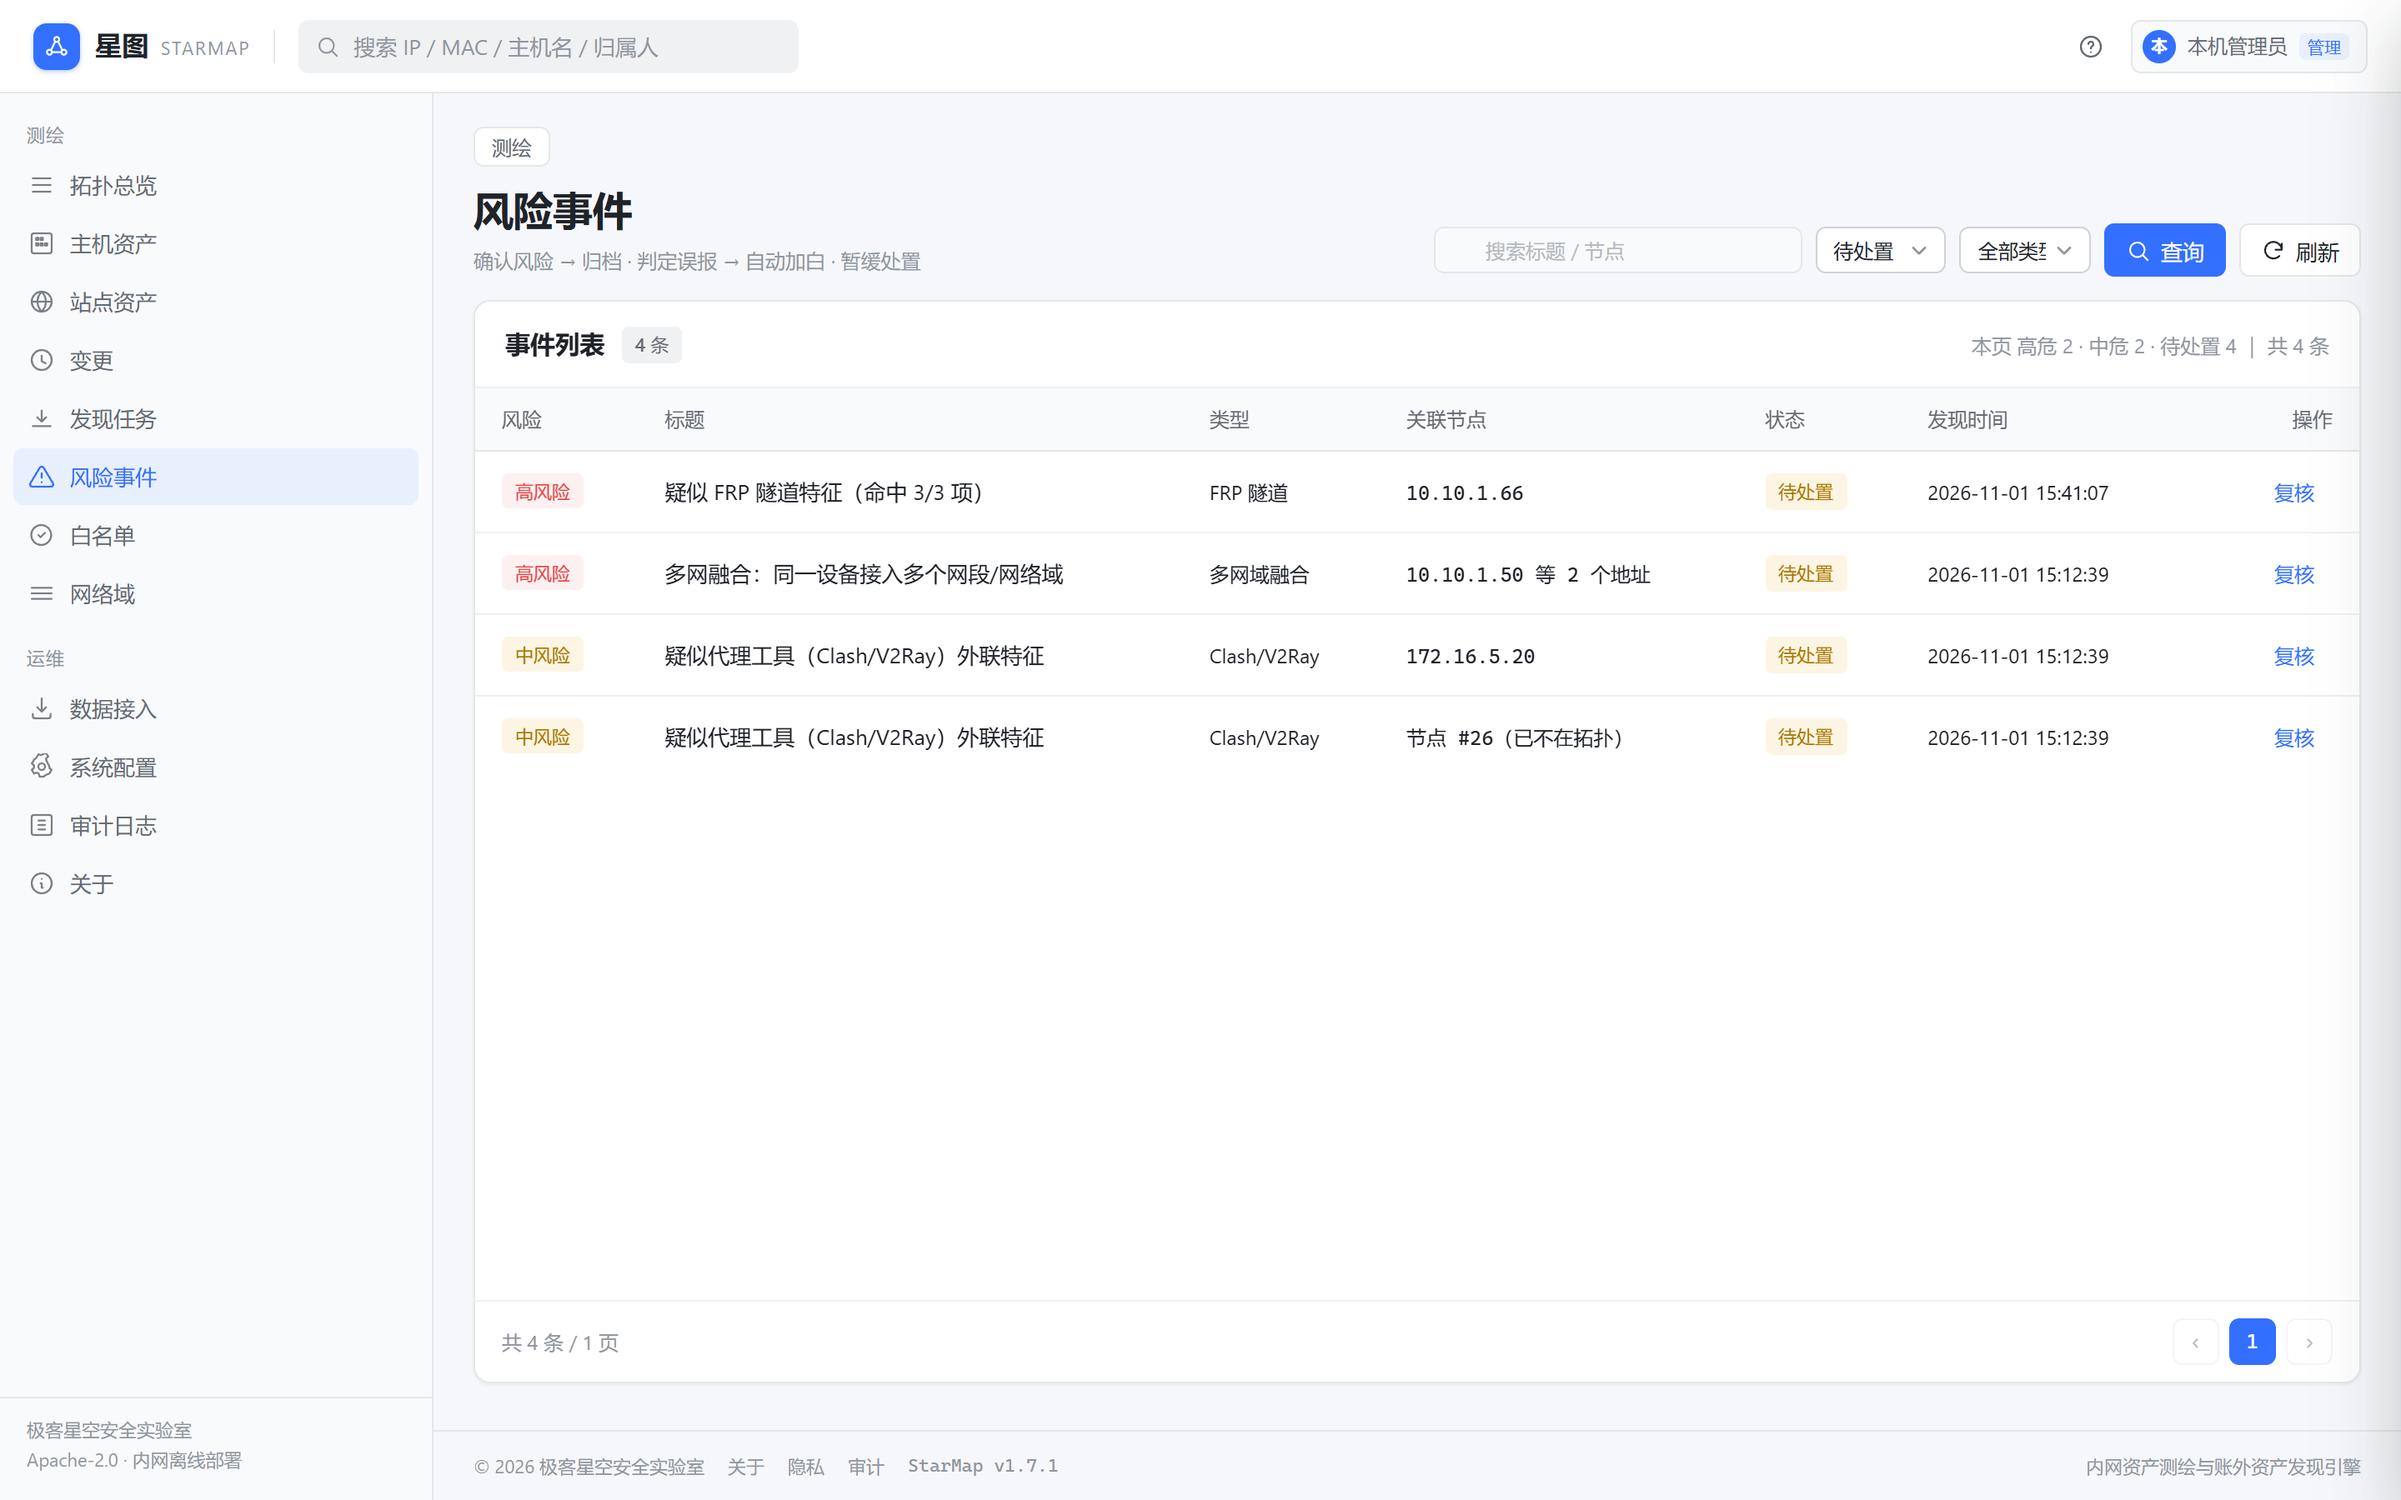
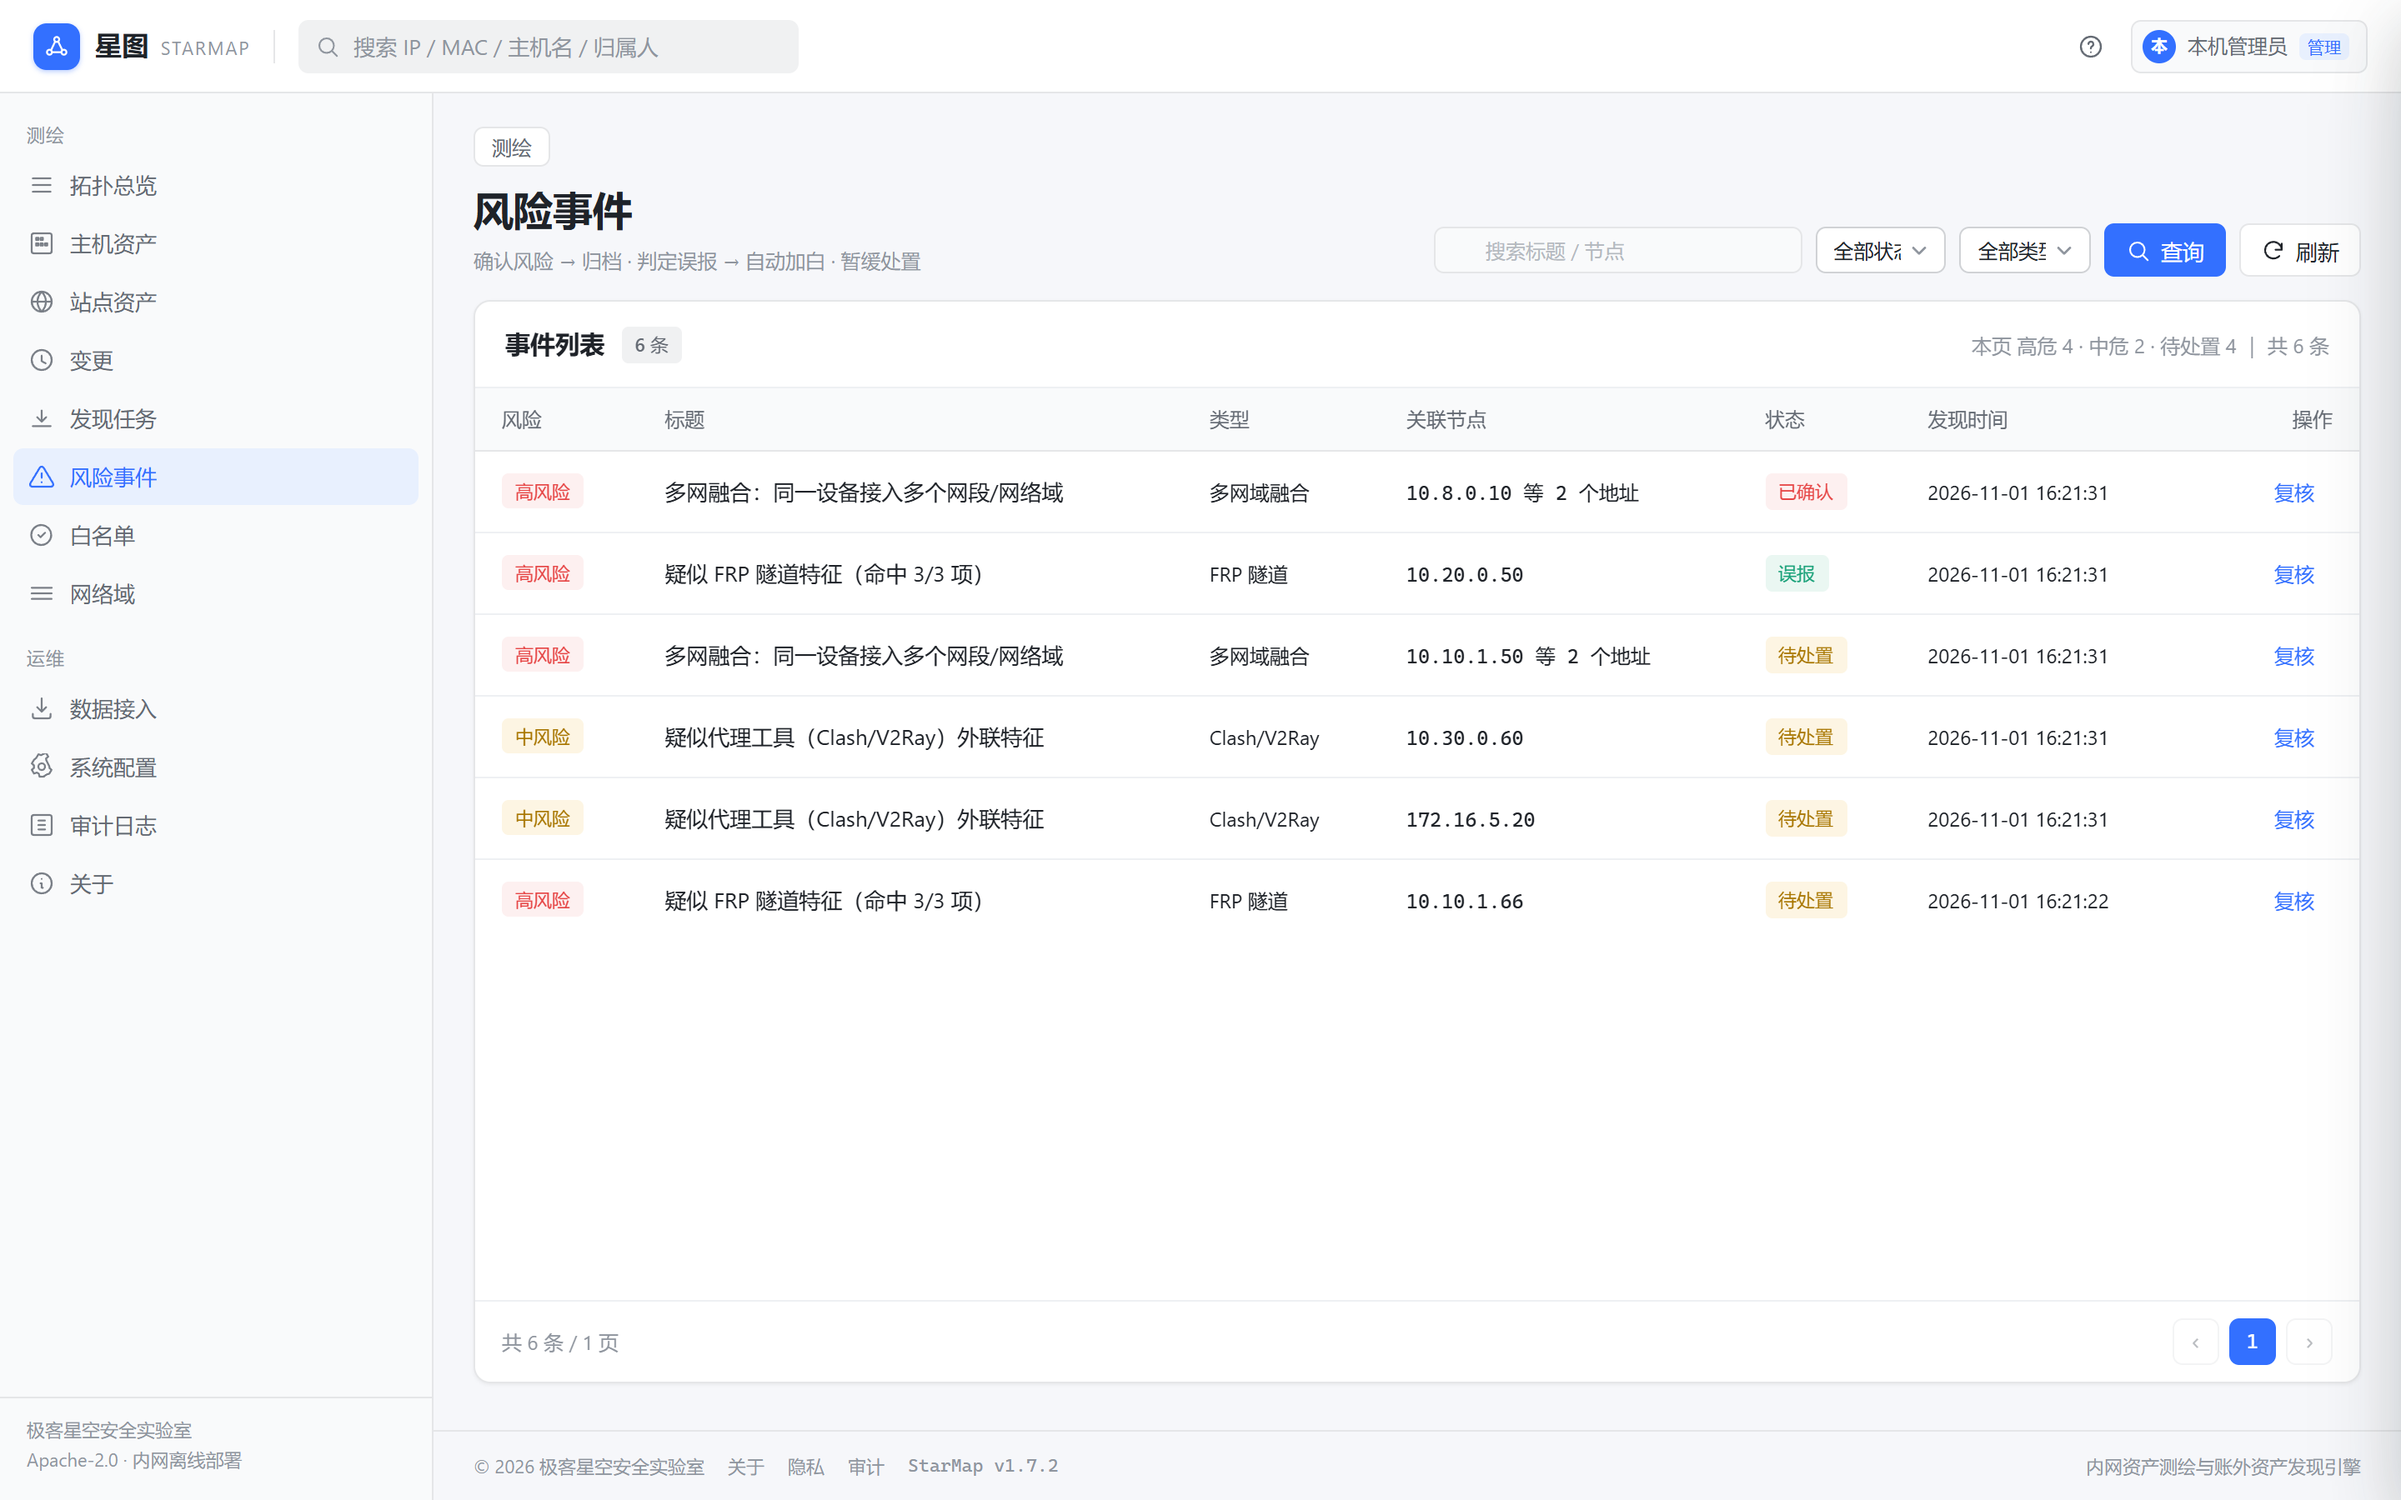
docs: 重拍全部截图（页脚 1.7.2），并修三处拍法本身
截图此前是在"功能已修、版本号还没提"的构建上拍的：页面行为是 1.7.2，页脚却写着 v1.7.1。
用当前源码重出 19 张（login.png 无版本信息，不动）。

顺带修掉三张图"打开就拍"拍到的都是最没信息量的那一屏：
- ledger.png 切「在册在网」：默认「全部」首屏全是台账外，而它们的归属/位置必然为空，
  拍不出台账把归属单位/负责人/物理位置补到了行上；
- events.png 切「全部状态」：默认只筛待处置，永远是清一色"待处置"，看不出复核走过没有；
- site-detail.png 滚到 #mTags：抽屉正文可滚动，停在顶部时标注表单被页脚切掉半行。

数据侧补了站点标注与事件复核状态，台账按"大部分对得上、少数差异"重造
（21 条台账 / 27 台主机 → 在册在网 16、台账外 9、僵尸 3、IP 不符 2），README 数字随之对齐。
同一实例上两种视口的 visual-audit 仍全 PASS。

diff --git a/scripts/shot.py b/scripts/shot.py
@@ -39,7 +39,6 @@ def want(name):
 PAGES = [
     ("index.html", "topology.png", 5.0),
     ("assets.html", "assets.png", 1.6),
-    ("events.html", "events.png", 1.8),
     ("sites.html", "sites.png", 2.4),
     ("changes.html", "changes.png", 2.6),
     ("tasks.html", "tasks.png", 1.8),
@@ -72,6 +71,15 @@ def main() -> int:
             pg.goto(f"{BASE}/{path}", wait_until="networkidle")
             shoot(pg, name, wait)
 
+        # 风险事件：列表默认只筛"待处置"，那正是给处置用的默认值。
+        # 但截图要证明"复核能让状态变化"，所以切到「全部状态」再拍——
+        # 否则图里永远是清一色"待处置"，看不出处置这条链路走过没有。
+        if want("events.png"):
+            pg.goto(f"{BASE}/events.html", wait_until="networkidle")
+            pg.wait_for_timeout(900)
+            pg.select_option("#fStatus", "")
+            shoot(pg, "events.png", 1.8)
+
         # 站点详情：1.7 的一级资产视图，抽屉里是证书情报 + 人工标注表单。
         # 光拍列表证明不了抽屉能用——标注表单是这一页唯一的写入口。
         if want("site-detail.png"):
@@ -79,7 +87,14 @@ def main() -> int:
             pg.wait_for_timeout(1500)
             pg.click('button[data-act="open"]')
             pg.wait_for_selector("#drawer.is-open", timeout=4000)
-            shoot(pg, "site-detail.png", 1.6)
+            pg.wait_for_timeout(600)
+            # 抽屉正文可滚动，默认停在顶部时标注表单会被页脚切掉半行（标签框只露一条边）。
+            # 滚到标签输入框：既保住上面的证书情报，又能把"标签 + 备注 + 保存标注"整块拍全。
+            pg.evaluate("""() => {
+                var n = document.getElementById('mTags');
+                if (n) { n.scrollIntoView({block: 'center'}); }
+            }""")
+            shoot(pg, "site-detail.png", 1.2)
 
         # 任务详情：1.6 的任务账，抽屉里给的是"每台主机扫出哪些端口"
         if want("task-detail.png"):
@@ -107,10 +122,16 @@ def main() -> int:
             }""")
             shoot(pg, "settings.png", 0.8)
 
-        # 台账对照：资产页的第三个标签
+        # 台账对照：资产页的第三个标签。
+        # 默认停在「全部」时，表格按 账外→在册→IP不符→僵尸 排，首屏全是"台账外"，
+        # 看起来像"网里全是影子设备"；而这些行的归属/位置必然为空（台账里没有），
+        # 恰恰拍不出"导入台账后把归属单位、负责人、物理位置补上了"这件事。
+        # 所以切到「在册在网」再拍：四类计数仍在上面的卡片与筛选标签里。
         if want("ledger.png"):
             pg.goto(f"{BASE}/assets.html", wait_until="networkidle")
             pg.click('button[data-tab="ledger"]')
+            pg.wait_for_timeout(800)
+            pg.click('#ledgerFilters .sm-tab:has-text("在册在网")')
             shoot(pg, "ledger.png", 2.0)
 
         # 端口记录：1.2 起有「指纹」列（产品 / 版本 / 证书 / favicon）

diff --git a/docs/screenshots/README.md b/docs/screenshots/README.md
@@ -54,6 +54,15 @@ curl -s -X POST http://127.0.0.1:18097/api/ledger/import \
 - 登记的 MAC 在网内某台机器上、但 IP 变了 → **IP 不符**
 - 网内其余主机 → **台账外设备**
 
+比例的讲究：台账要按"大部分对得上、少数差异"来造（例如 27 台主机里 21 条台账、16 台账实一致）。
+全都不对得上会拍成一屏"网里全是影子设备"，读者会以为这在演示误报。
+
+另外两类数据不进库也要补，否则拍出来是空的：
+
+- **站点标注**：`POST /api/sites/meta` 给几个站点填名称 / 归属 / 标签，否则「标签」列整列是 `—`；
+- **事件复核**：`POST /api/events/{id}/review` 处置掉两条（`confirm` 与 `false_positive` 各一条），
+  否则状态列只有"待处置"一种。注意 `false_positive` 会**自动写白名单**，白名单页那张图要跟着重拍。
+
 ## 3. 拍
 
 ```bash
@@ -74,6 +83,14 @@ python3 scripts/shot.py
 
 > **一定要用 `SHOTONLY` 增量更新。** 拿一个数据很少的实例跑全量，会把已经拍得比较饱满的图覆盖成空表，
 > 而 git 里看到的只是"图片变了"，很难察觉变差了。
+
+有三张图不是"打开页面就拍"，因为默认视口下拍到的是页面**最没信息量**的那一屏：
+
+| 图 | 额外动作 | 不这么做会怎样 |
+|---|---|---|
+| `ledger.png` | 切到「在册在网」筛选 | 默认「全部」按 账外→在册→IP不符→僵尸 排，首屏全是台账外，而它们的归属/位置必然为空——拍不出"台账补上了归属单位/负责人/位置" |
+| `events.png` | 状态筛切换成「全部状态」 | 默认只筛待处置，图里永远是清一色"待处置"，看不出复核这条链路走过没有 |
+| `site-detail.png` | 滚到 `#mTags` | 抽屉正文可滚动，停在顶部时标注表单被页脚切掉半行，只露出标签框的一条边 |
 
 ## 4. 校验（比截更重要的那一步）
 

diff --git a/CHANGELOG.md b/CHANGELOG.md
@@ -11,6 +11,24 @@
 
 ## 未发布
 
+### 重拍截图：1.7.2 的图里页脚还写着 v1.7.1
+
+`docs/screenshots/*.png` 是在"功能已修、版本号还没提"的那个构建上拍的，于是正文是 1.7.2 的行为、
+页脚是 `v1.7.1`。这类不一致最容易被当成"文档没跟上"，但它恰恰出现在截图作为证据使用的场景里。
+用当前源码重出 19 张（`login.png` 无版本信息，保持不变），并顺手修了三处**拍法**本身：
+
+- `ledger.png` 切到「在册在网」：默认「全部」按 账外→在册→IP不符→僵尸 排，首屏全是台账外，
+  而它们的归属/位置必然为空，拍不出"台账把归属单位、负责人、物理位置补到了行上"；
+  四类计数仍挂在筛选标签上。
+- `events.png` 状态切到「全部状态」：默认只筛待处置，图里永远是清一色"待处置"，
+  看不出复核这条链路走过没有（这一轮处置了一条 `confirm` + 一条 `false_positive`）。
+- `site-detail.png` 滚到 `#mTags`：抽屉正文可滚动，停在顶部时标注表单被页脚切掉半行。
+
+数据侧也补齐了"拍照需要但功能不依赖"的两块：站点标注（否则「标签」列整列是 `—`）、事件复核状态。
+台账按"大部分对得上、少数差异"重造（21 条台账 / 27 台主机 → 在册在网 16、台账外 9、僵尸 3、IP 不符 2），
+因为全都不对得上会拍成一屏"网里全是影子设备"，读者只会当成误报演示。
+README 里引用的数字随之对齐。
+
 ### 新增：`scripts/ui-writes.py` —— 写入口开始有落库断言
 
 1.7.2 之前的三层闸门验的是"能编译、测试过、排版对、点下去有反应"，**没有一层在验

diff --git a/README.md b/README.md
@@ -397,8 +397,10 @@ curl -F "file=@testdata/out/frp_tunnel.pcap" http://127.0.0.1:8080/api/ingest/pc
 
 ![drilldown](docs/screenshots/topology-drill.png)
 
-**台账对照**：导入 `testdata/` 结构的台账后做账实差异——截图这一轮是 12 条台账 vs 18 台实测主机：
-在册在网 9 台、**台账外 8 台**、僵尸记录 2 条、IP 不符 1 条。台账外设备按风险排序，违规设备排在最前。
+**台账对照**：导入 `testdata/` 结构的台账后做账实差异——截图这一轮是 21 条台账 vs 27 台实测主机：
+在册在网 16 台、**台账外 9 台**、僵尸记录 3 条、IP 不符 2 条。截图停在「在册在网」这一档，
+为的是看清台账把人填的归属单位、负责人、物理位置补到了行上；切到「台账外设备」则按风险排序，
+违规设备排最前，四类的计数始终挂在下面的筛选标签上。
 注意"IP 对上"之后还要过一遍 MAC 校验：老张的机器下线、IP 被新设备占用时，只有 MAC 校验才能把它报成
 「台账僵尸 + 账外设备」，而不是洗白成"在册在网"：
 
